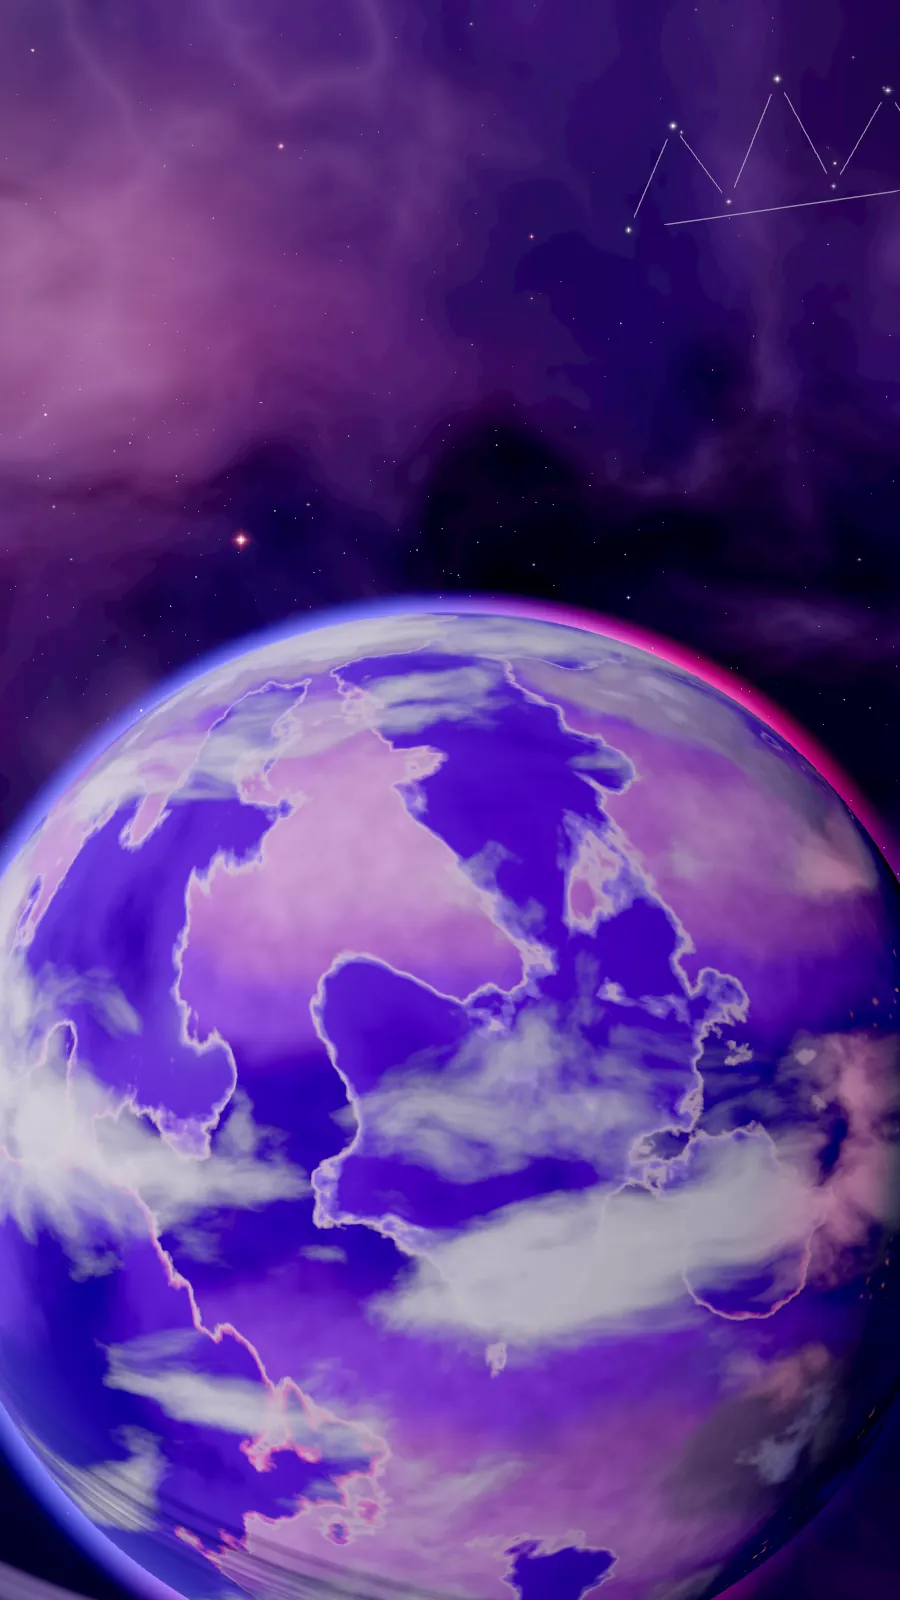
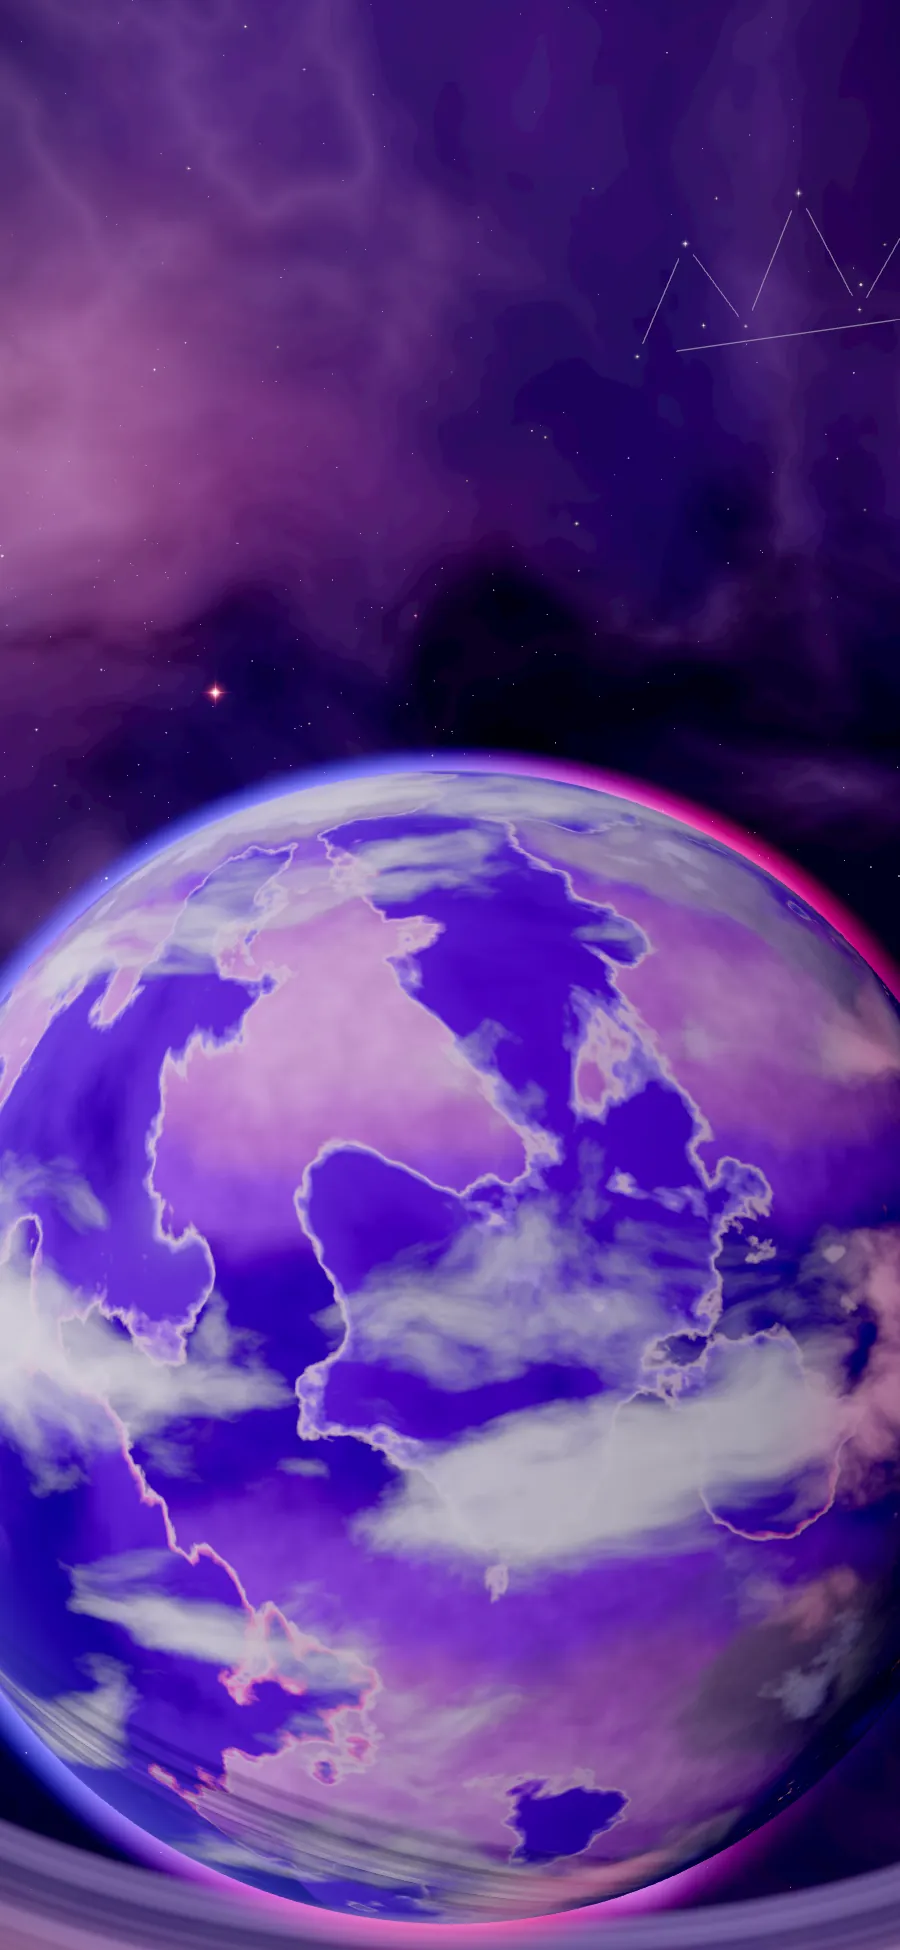
No more black flashes on phones: shader maths that went NaN on Apple GPUs, guarded; the planet turns where you can see it; the loading still fades into the live planet

diff --git a/src/style.css b/src/style.css
@@ -479,11 +479,17 @@ body.demo .hud, body.demo .places-toggle, body.demo .nav-hint, body.demo .signin
   background: radial-gradient(circle at 50% 42%, #2b145e 0%, #12082c 58%, #07030f 100%);
   transition: opacity 0.5s, background-color 0.8s;
 }
-/* The planet behind the loading screen (B25): a still of it while the world loads, the planet itself
-   once it has, turning behind the screen with only a soft shade over it so the type stays clear. */
-#loading.intro { background: radial-gradient(ellipse 70% 55% at 50% 40%, rgba(12, 6, 30, 0.55), rgba(12, 6, 30, 0) 70%), url(/art/planet.webp) center 58% / cover no-repeat, #07030f; }
+/* The planet behind the loading screen (B25): a still of it while the world loads, then the planet
+   itself, turning behind the screen with only a soft shade over it so the type stays clear. The still
+   fades into it once it's drawn (.live). */
+#loading.intro { background: #07030f; }
 #loading.intro.ready { background: radial-gradient(ellipse 70% 55% at 50% 40%, rgba(12, 6, 30, 0.5), rgba(12, 6, 30, 0) 70%), linear-gradient(180deg, rgba(7, 3, 15, 0.25), rgba(7, 3, 15, 0) 40%); }
-@media (orientation: portrait) { #loading.intro:not(.ready) { background-image: radial-gradient(ellipse 70% 55% at 50% 40%, rgba(12, 6, 30, 0.55), rgba(12, 6, 30, 0) 70%), url(/art/planet-tall.webp); } }
+.intro-still { display: none; }
+/* Sized the way the lens is: a wide screen keeps the view's height (the still is 21:9, cropped at the
+   sides), a tall one its width (the still is a tall phone's, cropped top and bottom). */
+#loading.intro .intro-still { display: block; position: absolute; inset: 0; z-index: -1; pointer-events: none; background: radial-gradient(ellipse 70% 55% at 50% 40%, rgba(12, 6, 30, 0.55), rgba(12, 6, 30, 0) 70%), url(/art/planet.webp) center / auto 100% no-repeat, #07030f; transition: opacity 1.2s ease; }
+@media (orientation: portrait) { #loading.intro .intro-still { background-image: radial-gradient(ellipse 70% 55% at 50% 40%, rgba(12, 6, 30, 0.55), rgba(12, 6, 30, 0) 70%), url(/art/planet-tall.webp); background-size: auto, 100% auto; } }
+#loading.intro.live .intro-still { opacity: 0; }
 #loading.intro::before,
 #loading.intro::after { content: ''; position: absolute; inset: 0; pointer-events: none; }
 /* Scanlines, and a slow bright band rolling down like an old screen. */

diff --git a/src/planet.js b/src/planet.js
@@ -304,7 +304,7 @@ void main() {
   // The sun on the sea: a tight glint and a soft sheen.
   vec3 H = normalize(L + V);
   float nh = max(dot(N, H), 0.0);
-  float fres = pow(1.0 - max(dot(N, V), 0.0), 5.0);
+  float fres = pow(clamp(1.0 - dot(N, V), 0.0, 1.0), 5.0);
   float glint = pow(nh, 700.0) * 0.18 + pow(nh, 48.0) * 0.02;
   col += sunCol * water * glint * (0.8 + fres) * smoothstep(0.0, 0.2, nl) * (1.0 - shadow * 0.8) * (1.0 - rings);
   // Night: the cities, where the sun has gone.
@@ -317,7 +317,7 @@ void main() {
   // A whisper of light on the night side, so it never reads as a hole.
   col += albedo * vec3(0.06, 0.04, 0.14) * dark * 0.4;
   // The air: a haze toward the rim, on the lit side.
-  float rim = pow(1.0 - max(dot(N, V), 0.0), 2.6);
+  float rim = pow(clamp(1.0 - dot(N, V), 0.0, 1.0), 2.6);
   col = mix(col, uHaze * (0.35 + 0.65 * lit), rim * 0.5 * smoothstep(-0.3, 0.4, nl));
   gl_FragColor = vec4(col, 1.0);
   #include <colorspace_fragment>
@@ -379,7 +379,8 @@ void main() {
   float x = clamp((closest - uR) / (uR * 0.055), -1.0, 1.0);
   // Brightest just above the surface, gone at the shell's edge; over the planet's disc, a thin veil.
   float glow = x > 0.0 ? pow(1.0 - x, 2.6) : smoothstep(-0.25, 0.0, x) * 0.9;
-  vec3 P = normalize(cameraPosition + V * -b - uCentre);
+  vec3 P = cameraPosition + V * -b - uCentre;
+  P *= inversesqrt(max(dot(P, P), 1e-12));
   float sd = dot(P, normalize(uSun));
   vec3 col = mix(uDuskSky, uDay, smoothstep(-0.05, 0.55, sd));
   col = mix(uNight * 0.35, col, smoothstep(-0.45, -0.05, sd));
@@ -599,8 +600,9 @@ export function createPlanet({ renderer, quality = 'high', style = 'amethyst' })
     // Each frame while it shows: the planet turns, its clouds a little faster, the moons go round.
     update(dt) {
       t += dt;
-      shared.uSpin.value = t * 0.006;
-      shared.uCloudSpin.value = t * 0.0095;
+      // A turn about every three minutes, so it's plainly turning; the weather drifts over the land.
+      shared.uSpin.value = t * 0.035;
+      shared.uCloudSpin.value = t * 0.05;
       ground.material.uniforms.uTime.value = t;
       sky.material.uniforms.uTime.value = t;
       shared.uCentre.value.copy(group.position);

diff --git a/src/cosmos.js b/src/cosmos.js
@@ -72,12 +72,13 @@ void main() {
   vec3 col = mix(vec3(0.006, 0.004, 0.02), vec3(0.022, 0.012, 0.055), smoothstep(-0.7, 0.9, d.y));
   // The band: the galaxy's plane, a wide violet sweep, wisps along it.
   float bandX = d.y * 0.85 + d.x * 0.4 - 0.15;
-  float band = exp(-pow(bandX / 0.42, 2.0));
+  float bx = bandX / 0.42;
+  float band = exp(-bx * bx);
   vec3 w = vec3(fbm(d * 1.8 + 3.0, 4), fbm(d * 1.8 + 11.0, 4), fbm(d * 1.8 + 23.0, 4));
   float n = fbm(d * 2.2 + w * 1.4, 6);
   float wisps = smoothstep(0.48, 0.88, n) * band;
   // Filaments: thin bright threads through it.
-  float fil = pow(1.0 - abs(fbm(d * 4.5 + w * 2.0, 5) * 2.0 - 1.0), 7.0) * band;
+  float fil = pow(max(1.0 - abs(fbm(d * 4.5 + w * 2.0, 5) * 2.0 - 1.0), 0.0), 7.0) * band;
   // The far stars' glow along the band, mottled.
   float milk = band * (0.4 + 0.6 * fbm(d * 9.0, 4));
   col += vec3(0.16, 0.08, 0.34) * milk * 0.12;
@@ -289,13 +290,17 @@ uniform float uGlow;
 varying vec3 vWorld;
 varying vec3 vTint;
 void main() {
-  // Faceted: the face's own normal, from the slopes of the position.
-  vec3 N = normalize(cross(dFdx(vWorld), dFdy(vWorld)));
+  // Faceted: the face's own normal, from the slopes of the position. A speck of a rock a pixel or two
+  // across has no slope to go by: it faces the camera. (Normalising nothing is NaN on Apple's GPUs,
+  // and one NaN pixel, spread by the bloom, blacks out the whole frame.)
   vec3 V = normalize(cameraPosition - vWorld);
+  vec3 c = cross(dFdx(vWorld), dFdy(vWorld));
+  float c2 = dot(c, c);
+  vec3 N = c2 > 1e-20 ? c * inversesqrt(c2) : V;
   if (dot(N, V) < 0.0) N = -N;
   vec3 L = normalize(uSun);
   float lit = max(dot(N, L), 0.0);
-  float rim = pow(1.0 - max(dot(N, V), 0.0), 3.0);
+  float rim = pow(clamp(1.0 - dot(N, V), 0.0, 1.0), 3.0);
   vec3 col = vTint * (0.06 + 1.25 * lit) + vec3(0.55, 0.38, 1.0) * rim * 0.35 + vec3(0.03, 0.02, 0.08);
   // The shards glow from inside.
   col += vTint * uGlow * (0.5 + 0.5 * rim);

diff --git a/src/intro.js b/src/intro.js
@@ -190,6 +190,7 @@ export function createIntro(el) {
   el.classList.add('intro');
   // index.html carries the same markup, so the screen is there from the first paint.
   if (!el.querySelector('.glitch')) el.innerHTML = `
+    <div class="intro-still" aria-hidden="true"></div>
     <div class="kicker">WELCOME TO</div>
     <div class="glitch" data-text="CHOG WORLD">CHOG WORLD</div>
     <div class="load-bar" aria-hidden="true"><i></i></div>
@@ -244,11 +245,15 @@ export function createIntro(el) {
       el.classList.add('ready');
       document.body.classList.add('intro-open');
     },
+    // The planet itself is drawn behind the screen now: the still of it fades away.
+    live() {
+      el.classList.add('live');
+    },
     // The loading screen again, its bar at f (0 to 1) under label, the world hidden: for the demo's
     // arrival shot (B13), which opens on it.
     loading(f, label) {
       current = 'loading';
-      el.classList.remove('done', 'leaving', 'ready');
+      el.classList.remove('done', 'leaving', 'ready', 'live');
       document.body.classList.add('intro-open');
       runner.stop();
       stage.hidden = true;

diff --git a/src/space.js b/src/space.js
@@ -209,8 +209,10 @@ export function createSpace({ scene, camera, renderer, sky, clouds, rig, dip, qu
       else painted();
       // A slow machine may still be painting after the load: the planet shows once it's done.
       planet.group.visible = planet.baked;
-      time += dt;
-      planet.update(dt);
+      // The planet's clock starts as it comes into view, so it opens as the loading screen's still of it.
+      const shown = state !== 'off';
+      if (shown) time += dt;
+      planet.update(shown ? dt : 0);
       cosmos.update(dt, camera);
       const r = run;
       if (r?.kind === 'reveal') {

diff --git a/src/main.js b/src/main.js
@@ -587,6 +587,8 @@ async function init() {
   if (withIntro) {
     space.enter({ duration: 0 });
     intro.ready();
+    // The still behind the screen gives way to the planet once it's painted and drawn.
+    space.ready.then(() => requestAnimationFrame(() => requestAnimationFrame(() => intro.live())));
     // A11 drives the screen through sign-in (session.startIntro); until then, Connect opens the
     // sign-in panel and a guest is flown back down to the world.
     if (session.startIntro) session.startIntro(intro);

diff --git a/src/sky.js b/src/sky.js
@@ -140,7 +140,7 @@ void main() {
     vec3 n = normalize(vec3(slope.x, 1.0, slope.y));
     vec3 r = reflect(d, n);
     vec3 sky = mix(uHorizon, uTop, pow(smoothstep(0.0, 0.65, max(r.y, 0.0)), 0.8));
-    float fres = 0.02 + 0.98 * pow(1.0 - max(dot(-d, n), 0.0), 5.0);
+    float fres = 0.02 + 0.98 * pow(clamp(1.0 - dot(-d, n), 0.0, 1.0), 5.0);
     vec3 deep = mix(vec3(0.012, 0.06, 0.2), vec3(0.003, 0.006, 0.025), uNight);
     vec3 sea = mix(deep, sky, fres);
     // Glints twinkle as the waves turn.

diff --git a/src/tunnels.js b/src/tunnels.js
@@ -35,7 +35,7 @@ export function buildTunnels(scene, paths) {
     shader.fragmentShader = shader.fragmentShader.replace(
       '#include <opaque_fragment>',
       `// Clear face-on, reflective at grazing angles (as the domes' glass).
-float fres = pow(1.0 - abs(dot(normalize(normal), normalize(vViewPosition))), 3.0);
+float fres = pow(clamp(1.0 - abs(dot(normalize(normal), normalize(vViewPosition))), 0.0, 1.0), 3.0);
 diffuseColor.a = mix(0.07, 0.8, fres);
 #include <opaque_fragment>`,
     );

diff --git a/src/dome.js b/src/dome.js
@@ -240,7 +240,7 @@ if (vLocal.z > 0.0 && abs(ax) < uDoorHalf && (vLocal.y < postTop || length(vec2(
         .replace(
           '#include <opaque_fragment>',
           `// Clear face-on, reflective at grazing angles.
-float fres = pow(1.0 - abs(dot(normalize(normal), normalize(vViewPosition))), 3.0);
+float fres = pow(clamp(1.0 - abs(dot(normalize(normal), normalize(vViewPosition))), 0.0, 1.0), 3.0);
 diffuseColor.a = mix(0.07, 0.8, fres);
 #include <opaque_fragment>`,
         );

diff --git a/src/warp.js b/src/warp.js
@@ -50,7 +50,8 @@ varying vec3 vTint;
 varying float vFade;
 void main() {
   // A soft line: bright core across, tapering to both ends along.
-  float across = exp(-pow((vUv.x - 0.5) * 4.2, 2.0));
+  float ax = (vUv.x - 0.5) * 4.2;
+  float across = exp(-ax * ax);
   float along = smoothstep(0.0, 0.35, vUv.y) * smoothstep(1.0, 0.7, vUv.y);
   float a = across * along * vFade * uOpacity;
   gl_FragColor = vec4(vTint * a * 3.6, a);

diff --git a/src/chog.js b/src/chog.js
@@ -488,7 +488,8 @@ uniform vec3 uColor; uniform float uTime, uStrength;
 varying vec2 vUv;
 void main() {
   float r = length(vUv - 0.5) * 2.0;
-  float ring = exp(-pow((r - 0.62) * 5.0, 2.0)) + exp(-r * 3.0) * 0.35;
+  float rx = (r - 0.62) * 5.0;
+  float ring = exp(-rx * rx) + exp(-r * 3.0) * 0.35;
   float pulse = 0.8 + 0.2 * sin(uTime * 2.4);
   gl_FragColor = vec4(uColor * ring * pulse * uStrength, 1.0);
 }`,

diff --git a/index.html b/index.html
@@ -16,6 +16,7 @@
     <div id="app"></div>
 
     <div id="loading" class="intro">
+      <div class="intro-still" aria-hidden="true"></div>
       <div class="kicker">WELCOME TO</div>
       <div class="glitch" data-text="CHOG WORLD">CHOG WORLD</div>
       <div class="load-bar" aria-hidden="true"><i></i></div>
